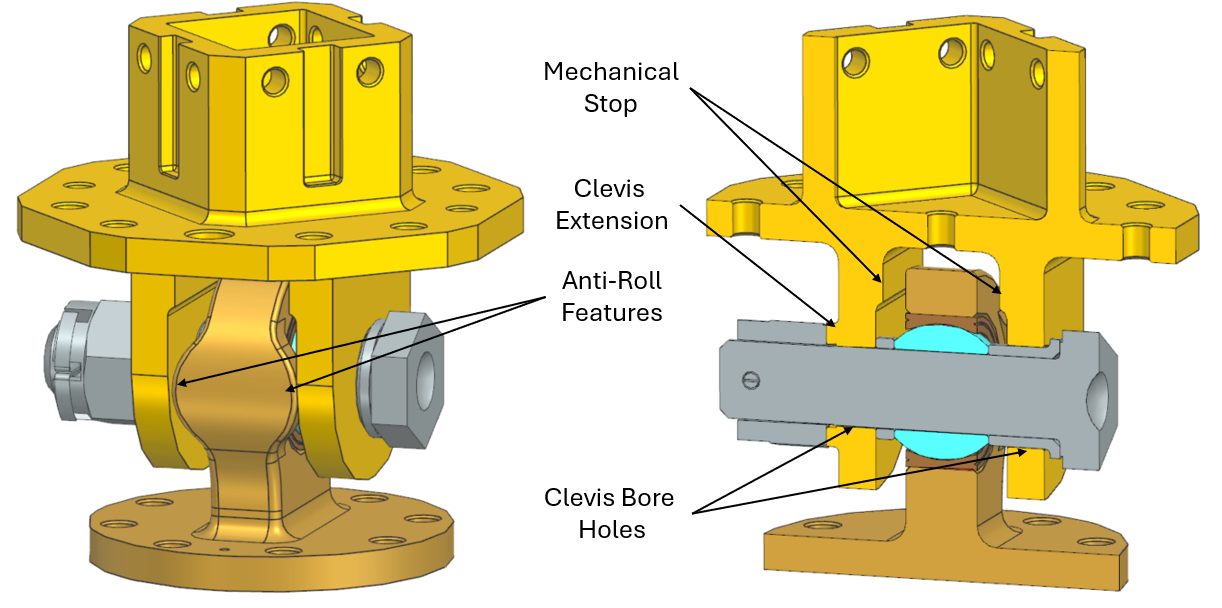
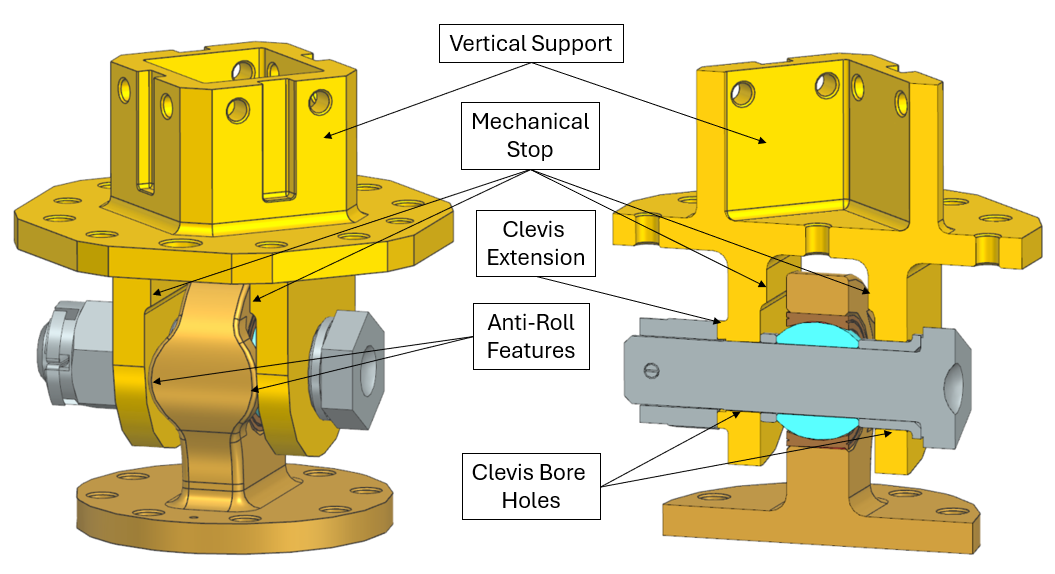
DF_1 finalized- 1st review

diff --git a/docs/WP3/Definition/WP3.1_DF.md b/docs/WP3/Definition/WP3.1_DF.md
@@ -44,11 +44,11 @@ header-includes:
 
 # 1. Introduction
 ## 1.1. Scope
-The definition file serves as the identity card of the Gimbal Mount Assembly (GMA), detailing its intended capabilities and interactions with other systems. The document aims to provide a thorough understanding of the following key aspects:
+The Definition File serves as the identity card of the Gimbal Mount Assembly (GMA), detailing its intended capabilities and interactions with other systems. The document aims to provide a thorough understanding of the following key aspects:
 
 • Overview of the components that constitute the GMA and their main purposes  
 • Description of the functional mechanical characteristics   
-• Design recommendations for adjacent parts
+• Design recommendations for adjacent parts  
 • Preliminary cost estimation  
 
 ##  1.2. Reference
@@ -72,9 +72,9 @@ The development logic of the Huracan engine system, as presented during the Prel
 
 For the on-Earth demonstrator *Oneiros*, which shall be driven by the Huracan engine, pitch and yaw control is planned to be realized by a Thrust Vector Control (TVC) system. The TVC system steers the vehicle by physically pivoting, or gimballing, the main engine in order to vector the thrust. Therefore, the main mechanical components of the TVC system are the GMA and two actuators. 
 
-This Definition File and all associated documents focuse exclusively on the development of the GMA.
+This Definition File and all associated documents focus exclusively on the development of the GMA.
 
-In the figure below, the GMA and its position within the engine layout is shown. The GMA is attached to a Thrust Dome, which interfaces with the Injection Head (IH). The upper end of the GMA is connected to the Thrust Frame Beams, which are individually connected to the GMA in a 90°-clocked configuration.
+In the figure below, the GMA and its position within the engine layout are shown. The GMA is attached to a Thrust Dome, which interfaces with the Injection Head (IH). The upper end of the GMA is connected to the Thrust Frame Beams, which are individually connected to the GMA in a 90°-clocked configuration.
 
 ![GMA in engine system](<../figures/GMA_engine context.png>){ width=55% }
 
@@ -87,7 +87,7 @@ The GMA shall therefore be considered as an interface and primary mechanical loa
 
 # 3. GMA Design Definition
 
-## 3.1. Assembly architecture & Design Philosophy 
+## 3.1. Assembly Architecture & Design Philosophy 
 
 Breaking down the engine assembly to focus on the GMA and its directly adjacent parts, the figure below shows the GMA connected to the Thrust Dome at the bottom and the Thrust Frame Beams above. The Thrust Dome and Thrust Frame Beams are shown transparently because they are outside the scope of this development. Nevertheless, design recommendations for these components are provided in a subsequent chapter. 
 
@@ -95,37 +95,43 @@ Breaking down the engine assembly to focus on the GMA and its directly adjacent 
 
 The design philosophy is aligned with the trade-off criteria described in [RD3]. To achieve a GMA design that is *safe, simple, and achievable*, the primary objectives are to minimize the number of parts and maximize the use of commercial off-the-shelf (COTS) parts. As a result, the final GMA design consists of eight parts: four COTS parts and four custom-made parts. The following figure shows the COTS parts used in the GMA.
 
-Machine parts in accordance with military and aerospace standards were selected as COTS  because of their guaranteed material properties, tight tolerances, and controlled manufacturing and inspection processes. The use of imperial units is accepted for some parts in this project because they can be sourced more quickly and at a lower cost.  
+Machined parts manufactured in accordance with military and aerospace standards were selected as COTS parts because of their guaranteed material properties, tight tolerances, and controlled manufacturing and inspection processes. The use of imperial units is accepted for some parts in this project because they can be sourced more quickly and at a lower cost.  
 
 ![COTS parts in the GMA](<../figures/GMA explosion cots.png>){width=40%}  
 
 ## 3.2. Part breakdown, materials and mass
 
-The image and the subsequent table illustrate the parts and their designated materials in an isometric and cross-sectional view. The GMA design equals a double-shear clevis joint, where the GMA Lug Head carries the stacked outer race of a self-lubricated Plain Bearing. The inner race of the Plain Bearing is centered within the GMA Clevis Head through a Spacer and clamped by a Bushing through the preload of a NAS-bolt. This bolt is preloaded by a castelladed nut, that is in concact with the outer surface of the GMA Clevis Head. The Cotter Pin secures the Castellated Nut from loosening from the bolt´s male thread and thus, keeps all axially stacked parts centered. The Clevis Head features two Clevis Ears, which is in contact with the Bolt on the one and the GMA Bushing on the other side. To allow unhindered clamping of all axially stacked parts and maintain the centered position between both Clevis Ears and the GMA Lug Head, both load transmitting bore holes of the Clevis feature different diameters and a radial clearance fit (see subsequent chapter). For the NAS-bolt specifically, it should be noted that the finish indicated by the letter U (passivated bolt) is determined by the market availability of this specific bolt size. Passivation is not required for the function of the assembly itself.
+The image and the subsequent table illustrate the parts and their designated materials in isometric and cross-sectional views.
+
+The GMA forms a double-shear clevis joint in which the GMA Lug Head supports the staked outer race of a self-lubricating plain bearing. The bearing inner race is centered within the GMA Clevis Head by a spacer and clamped against the bushing by the preload of the NAS bolt. A castellated nut contacts the outer surface of the GMA Clevis Head, while a cotter pin prevents the nut from loosening and maintains the axial position of the stacked components.
+
+The two Clevis Ears interface with the NAS bolt on one side and the GMA Bushing on the other. Their bores have different diameters and clearance fits to ensure controlled seating and clamping of the axially stacked components while maintaining the centered position of the GMA Lug Head between the Clevis Ears. Further details are provided in Section 3.3.
+
+The “U” suffix in the NAS bolt designation identifies the available passivated finish. This finish is driven by market availability and is not functionally required by the assembly.  
 
  ![GMA isometric view and cross section](<../figures/GMA_isometric_cross section.png>){ width=80% }  
 
 | **Number** | **CAD-ID** | **Designation** | **Material** | **Mass (kg)** |
-| :---: | :---: | :---: | :---: | :---: |
+|---|---|---|---|
 | 1 | 126749/01 |GMA CLEVIS HEAD              |17-4PH - H900    |0.864  |
 | 2 | 3489/01   |COTTER PIN MS24665-374       |AISI 302 or 304  |0.0022 |
 | 3 | 126711/01 |GMA BUSHING                  |17-4PH - H900    |0.0147 |
 | 4 | 3423/01   |BOLT NAS6710DU29             |A286             |0.1316 |
 | 5 | 3437/01   |NUT MS9358-16                |A286             |0.0386 |
 | 6 | 126707/01 |GMA SPACER                   |17-4PH - H900    |0.0003 |
-| 7 | 3489/01   | BEARING MS14103-10     |330C / 17-4PH    |0.1089 |
+| 7 | 19156/01   |BEARING MS14103-10          |330C / 17-4PH    |0.1089 |
 | 8 | 124890/01 |GMA LUG HEAD                 |17-4PH - H900    |0.381  |
 | **Total mass** |  | |  | **1.544** |
 : Total mass of main parts  
 
-Taking into account the additional bolts, washers, nuts, and pins, an additional CAD mass of 0.212 kg must be considered. The total mass is therefore approximately **1.8 kg**, which is **64 %** lower than the maximum mass specified in requirement [RD2]. Further details of the interface connections are provided in the GMA Interface Control Document (ICD) [RD3].
+Taking into account the additional bolts, washers, nuts, and pins, an additional CAD mass of 0.212 kg must be considered. The total mass is therefore approximately **1.8 kg**, which is **64 %** lower than the maximum mass specified in requirement [RD2]. Further details of the interface connections are provided in the GMA Interface Control Document (ICD) [RD4].
 
 ## 3.3. Tolerances and fits
 
-The selection of dimensional fits between mating cylindrical surfaces is governed by the fixed dimensions of the COTS parts used in the design, namely the plain bearing and the bolt. It also considers the fit recommendations specified by the applicable standards for the bearing and the GMA Lug Head, as well as the functional requirements of the assembly and the flexibility required during Manufacturing, Assembly, Integration, and Testing (MAIT). 
+The selection of dimensional fits between mating cylindrical surfaces is governed by the fixed dimensions of the COTS parts used in the design. It also considers the fit recommendations specified by the applicable standards for the bearing and the GMA Lug Head, as well as the functional requirements of the assembly and the flexibility required during Manufacturing, Assembly, Integration, and Testing (MAIT). 
 
-| **Parts** | **Shaft (mm)** | **Hole (mm)** | **Resulting tolerance (mm)** |
-|:---:|:---:|:---:|:---:|
+| **Parts** | **Shaft (mm)** | **Hole (mm)** | **Resulting Fit (mm)** |
+|---|---|---|---| 
 | BEARING & LUG     |30.1498–30.1625 |30.1570–30.1700 |**-0.0055 to +0.0202**|
 | BOLT & BEARING    |15.8369–15.8496 |15.8623–15.8750 |**+0.0127 to +0.0381**|
 | BOLT & CLEVIS     |15.8369–15.8496 |15.8623–15.8750 |**+0.0127 to +0.0381**|
@@ -140,42 +146,36 @@ The selection of dimensional fits between mating cylindrical surfaces is governe
 An overview of the functions of the main GMA parts is provided in the table below. The part numbers and designations correspond to those shown in Figure 4.
 
 | **Number** | **Designation** | **Function** |
-| :---: |:---: | :---: | 
+|---|---|---| 
 | 1 | GMA Clevis Head | Transfers loads into the thrust frame structure; provides centering and positioning of the lug interface; supports engine handling and positioning of instrumentation interfaces
 | 2 | COTTER PIN MS24665-374| Provides positive locking of the nut and prevents unintended loosening
-| 3 | GMA GMA Bushing | Provides axial positioning of the lug/bearing interface and supports axial load transfer between adjacent components
+| 3 | GMA Bushing | Provides axial positioning of the lug/bearing interface and supports axial load transfer between adjacent components
 | 4 | BOLT NAS6710DU29| Transfers shear and bending loads through the clevis/lug joint; provides axial and radial positioning of the connected parts
 | 5 | CASTELLATED NUT MS9358-16| Retains the bolt in the clevis/lug joint and maintains joint assembly integrity
 | 6 | GMA Spacer | Provides centered positioning of the lug/bearing assembly and maintains the required axial spacing
 | 7 | BEARING MS14103-10 | Supports radial and axial loads while allowing angular displacement in pitch and yaw
 | 8 | GMA Lug Head | Transfers loads between the bearing and engine interface; provides bearing support and mechanical stop functionality
-: GMA parts and function
+: GMA Parts and Functions
 
-## 4.2. Chosen functional characteristics
+## 4.2. Chosen functional and mechanical characteristics
 
 The GMA Lug Head and Clevis Head incorporate several specific mechanical features that are worth highlighting.
 
-![Chosen featurs of GMA parts](<../figures/GMA features.png>){ width=80% }  
+![Chosen Featurs of GMA Parts](<../figures/GMA features.png>){ width=60% }  
 
-The GMA Clevis Head contains two **mechanical stops** that limit the oscillation angle of the GMA Lug Head about the axis perpendicular to the NAS bolt axis (z-axis; see Figure 2). These geometric features are intended to prevent the maximum permissible oscillation angle of the bearings from being exceeded.
+The GMA Clevis Head consists of two Clevis Ears connected by a horizontal flange. A central rectangular **Vertical Support** carries transverse loads from the angled Thrust Frame Beams and provides four support surfaces spaced 90° apart for precise, independent attachment. Further details are specified in the ICD [RD4]. 
 
-A total of four **anti-roll features** are incorporated into the design of the GMA Lug Head. Their purpose is to limit rolling of the engine, and consequently of the vehicle, as much as possible under all gimbal-angle conditions. Therefore, the clearance between these features and the nearest surface of the clevis is kept as small as possible.
+The GMA Clevis Head contains two **Mechanical Stops** that limit the oscillation angle of the GMA Lug Head about the axis perpendicular to the NAS-bolt axis (z-axis; see Figure 2). These geometric features are intended to prevent the maximum permissible oscillation angle of the Bearing *MS14103-10* from being exceeded. The figure below illustrates the kinematic limit, with the GMA Lug Head tilted nominally by 12° relative to the GMA Clevis Head.
 
-The GMA design uses two different **clevis bore holes**. The smaller bore is in direct contact with the NAS bolt, whereas the larger bore provides a clearance fit around the GMA bushing. This clearance allows the axially clamped components to seat against one another in a controlled manner during bolt tightening.  
+![GMA at 12° Yaw and 0° Pitch](<../figures/GMA cross section_ yaw12deg.png>){width=40%}  
+  
+The GMA Clevis Head features a raised **Clevis Extension** beneath the castellated nut. It accommodates the commercially available NAS-bolt length, aligns the nut slots with the bolt’s cross-drilled hole for cotter-pin locking, and uses an enlarged bore to prevent the threaded bolt section from carrying transverse shear or bending loads.  
 
-The surface of the GMA Clevis Head that locally contacts the castellated nut incorporates a raised **clevis extension**. Considering the bolt lengths currently available on the market, this feature ensures proper axial alignment between the slots in the castellated nut and the cross-drilled hole in the NAS bolt, allowing the joint to be secured against loosening with a cotter pin. In addition, the bore diameter in this extension is larger than that in the remainder of the same Clevis Ear. This design prevents the threaded portion of the bolt from contributing to the transfer of transverse shear and bending loads.
+A total of four **Anti-Roll Features** are incorporated into the design of the GMA Lug Head. Their purpose is to minimize relative rotation of the engine about the roll axis (z-axis, Figure 2) under all gimbal-angle conditions. Therefore, the clearance between these features and the nearest surface of the clevis is kept as small as possible.   
 
-## 4.3. Mechanical characteristics
+The GMA design uses two different **Clevis Bore Holes**. The smaller bore is in direct contact with the NAS-bolt, whereas the larger bore provides a clearance fit around the GMA bushing. This clearance allows the axially clamped components to seat against one another in a controlled manner during bolt tightening.  
 
-The mechanical limits can be categorized as stability related, geometrical and kinematical limits. 
-
-Stability limits of the GMA are driven by the weakest and most sensitive part. This will be elaborated in detail in the Justification File [RD4].
-
-Geometrical and kinematical limits are given by the nature of the chosen bearing´s capability to tilt. For the self lubricating plain bearing *MS14103-10*, the max. angle of tilt is 12°. Exceeding this value may result in a reduction of the bearing lifetime, additional bending of the bolt etc. To protect the bearing, a mechanical stop feature is considered in the design of the GMA Clevis Head as shown in the figure below, where the GMA Lug is tilted by nominally 12° w.r.t. the GMA Clevis Head.
-
-![GMA - yaw=12°, pitch=0°](<../figures/GMA cross section_ yaw12deg.png>){width=40%} 
-
-# 5. Design recommendation for adjacent parts  
+# 5. Design Recommendations for Adjacent Parts 
 As mentioned in the previous chapters, the GMA development does not include the interfacing parts on the engine side and the vehicle side. Nevertheless, since these parts have not yet been finalized and directly interface with the GMA, it is useful to present design suggestions from the perspective of the GMA development.
 
 **Thrust Frame Beam**  
@@ -186,9 +186,9 @@ The GMA Clevis Head is designed to allow four separate structural members to be 
 **Thrust Dome**  
 The main function of the Thrust Dome is to provide space to accommodate the IGS and its peripheral attachments, while also transmitting the total thrust and thermal loads from the IH to the GMA. It is designed as an axially symmetric body with radial cut-outs to provide space and accessibility for the IGS. The proposed material is 17-4PH H900.
 
-The main suggested dimensions are shown below. The centering feature is designed as a longitudinal groove in a 90° clocked configuration. The function of this groove is to precisely position the Thrust Dome on the IH with respect to the lateral axis and to define its clocking, while accounting for the thermal contraction of the male feature (e.g. pins on the IH).
+The main suggested dimensions are shown below. The centering feature is designed as a longitudinal groove in a configuration clocked at 90° intervals. The function of this groove is to precisely position the Thrust Dome on the IH with respect to the lateral axis and to define its clocking, while accounting for the thermal contraction of the mating male features, such as pins on the IH.
 
-![Thrust Dome design](<../figures/Thrust Dome.png>){width=50%} 
+![Thrust Dome design](<../figures/Thrust Dome.png>){width=45%} 
 
 # 6. Preliminary cost assessment 
 
@@ -196,24 +196,29 @@ For the preliminary cost assessment, the custom-made parts were quoted through m
 
 | **Part**| **CAD-ID** | **Material** | **Cost (€/unit)** |
 | ------ | ----- | ------- |------- |
-| GMA CLEVIS HEAD             |126749/01  | 17-4PH - H900   |532|
-| GMA LUG HEAD                |124890/01  | 17-4PH - H900   |241|
-| GMA BUSHING                 |126711/01  | 17-4PH - H900   |35|
+| GMA CLEVIS HEAD             |126749/01  |17-4PH - H900    |532|
+| GMA LUG HEAD                |124890/01  |17-4PH - H900    |241|
+| GMA BUSHING                 |126711/01  |17-4PH - H900    |35|
 | GMA SPACER                  |126707/01  |17-4PH - H900    |30|
-| BEARING MS14103-10    |126707/01  |17-4PH - H900    |50|
+| BEARING MS14103-10          |19156/01  |330C/17-4PH       |50|
 | BOLT NAS6710DU29            |3423/01    |A286             |50|
 | CASTELLATED NUT MS9358-16   |3437/01    |A286             |88|
-| PIN MS24665-374             |3489/01    |A286              |9|
+| COTTER PIN MS24665-374      |3489/01    |AISI 302 or 304  |9|
 | **Total cost**              |           |                 |**1035**|
-: Cost estimation
-In addition to the estimated costs listed above, a dedicated staking tool is required to secure the outer race of the bearing in the GMA Lug Head. The estimated cost of this tool is approximately €260. Therefore, the total estimated cost, including the staking tool, is **1.295 €**.
+: Cost assessment  
+
+In addition to the estimated costs listed above, a dedicated staking tool is required to secure the outer race of the bearing in the GMA Lug Head. The estimated cost of this tool is approximately €260. Therefore, the total estimated cost, including the staking tool, is **1,295 EUR**.
+
+\clearpage
 
 # 7. Acronym List  
 The acronyms used in this document are listed below.  
 
 | **Acronym**  | **Definition**   |
 |---|---|
+|COTS |Commercial Off-The-Shelf|
 |GMA  |Gimbal Mount Assembly|
+|ICD  |Interface Control Document|
 |IGS  |Ignition System|
 |IH   |Injection Head|
 |PDR  |Preliminary Design Review 